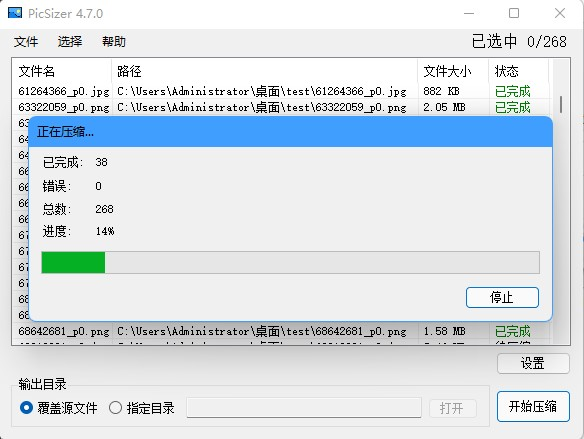
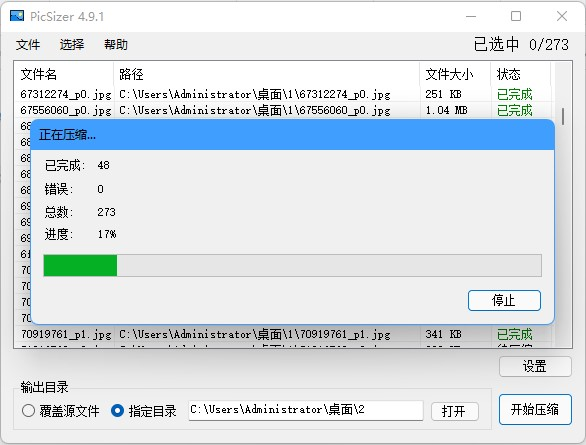
更新README

diff --git a/README.md b/README.md
@@ -1,4 +1,4 @@
-## 项目介绍(v4.7.0)
+## 项目介绍(v4.9.1)
 
 PicSizer是一款图片批量压缩软件，解决了传统压缩软件只能指定压缩比，而不能指定压缩后的大小的问题。
 
@@ -29,7 +29,11 @@ PicSizer是一款图片批量压缩软件，解决了传统压缩软件只能指
 
 ### 下载地址
 
-[PicSizer发行版(x64)](https://gitee.com/picsizer/pic-sizer/releases)
+[从Gitee下载最新版](https://gitee.com/picsizer/pic-sizer/releases)
+
+[从Vercel直链下载稳定版](https://picsizer.dearxuan.top/official)
+
+[从Vercel直链下载开发版](https://picsizer.dearxuan.top/alpha)
 
 ### 界面截图
 
@@ -41,7 +45,7 @@ PicSizer是一款图片批量压缩软件，解决了传统压缩软件只能指
 
 ## 格式说明
 
-PicSizer可以读取的格式很多，但是支持的输出格式只有JPEG, PNG, BMP, TIFF, ICON四个，并且会自动调整压缩策略。
+PicSizer可以读取的格式很多，但是支持的输出格式只有JPEG, PNG, BMP, TIFF, ICON五个，并且会自动调整压缩策略。
 
 其中JPEG支持画质压缩,而其它格式的图片仅支持缩放压缩和位深度压缩,[点击这里](#压缩方式)快速跳转到相关说明
 
